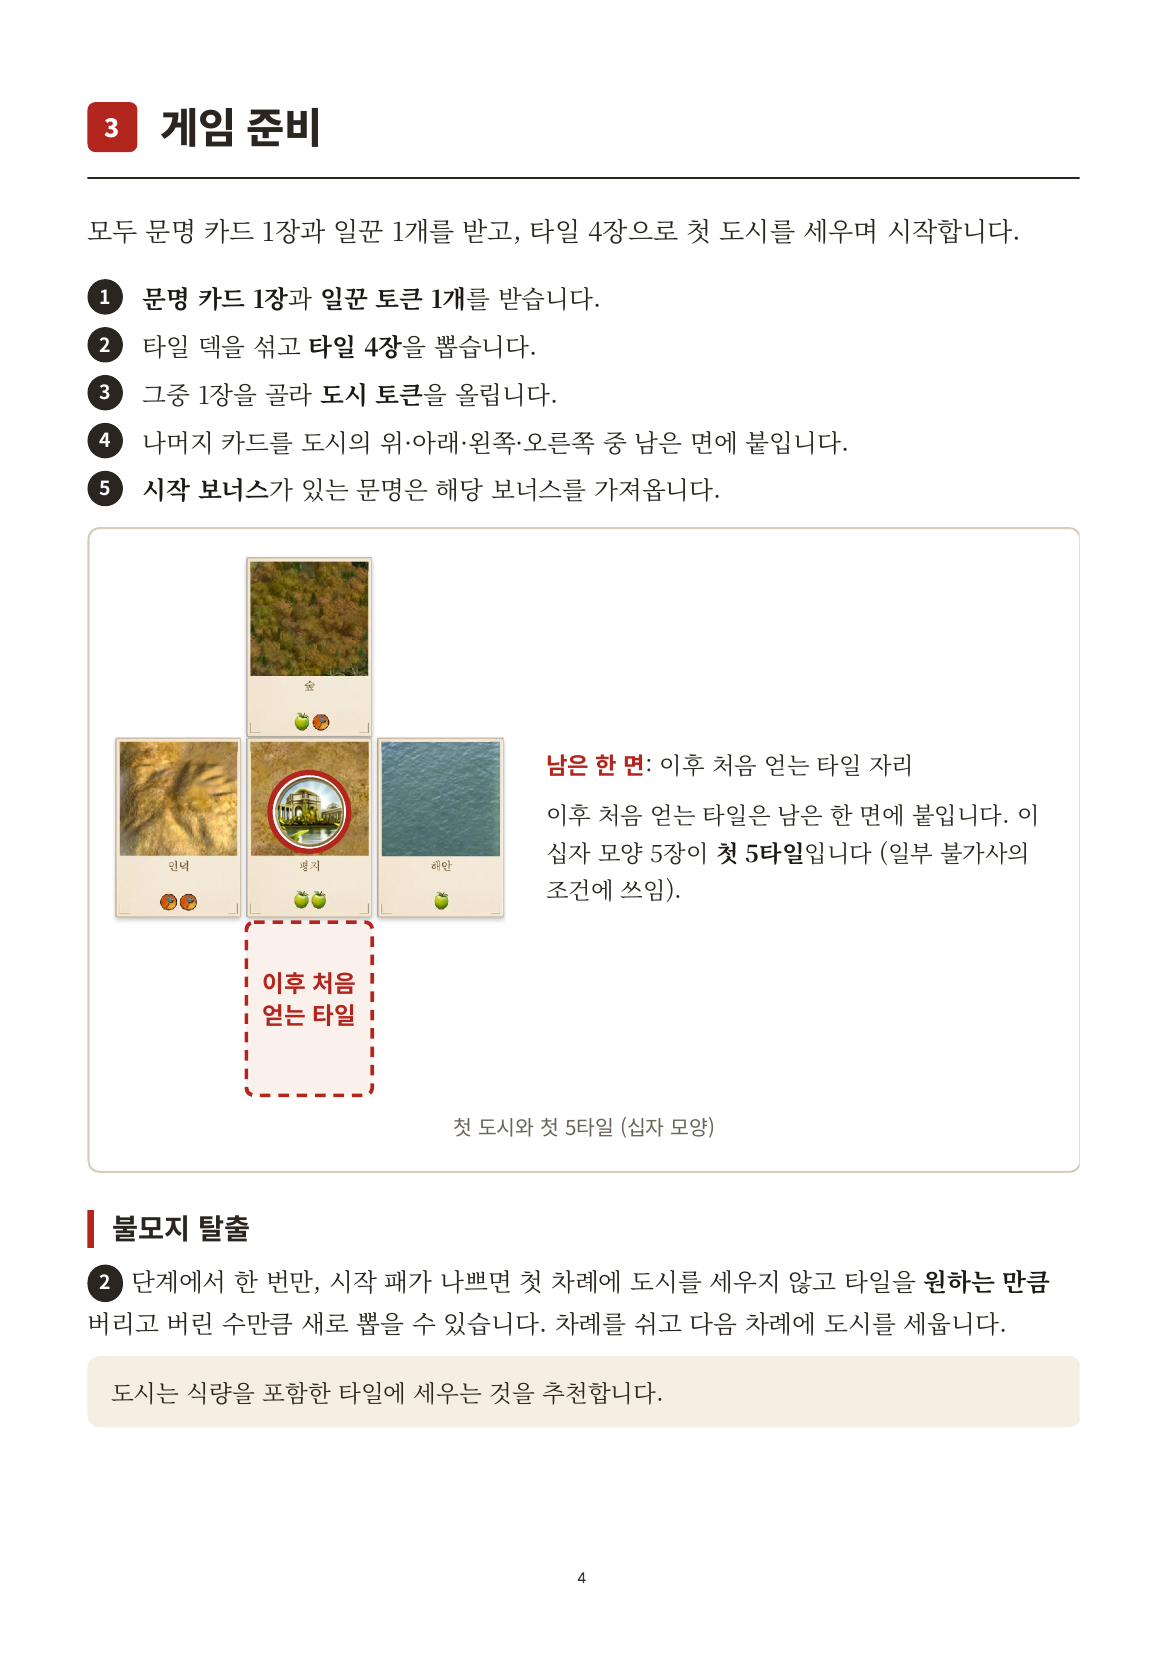
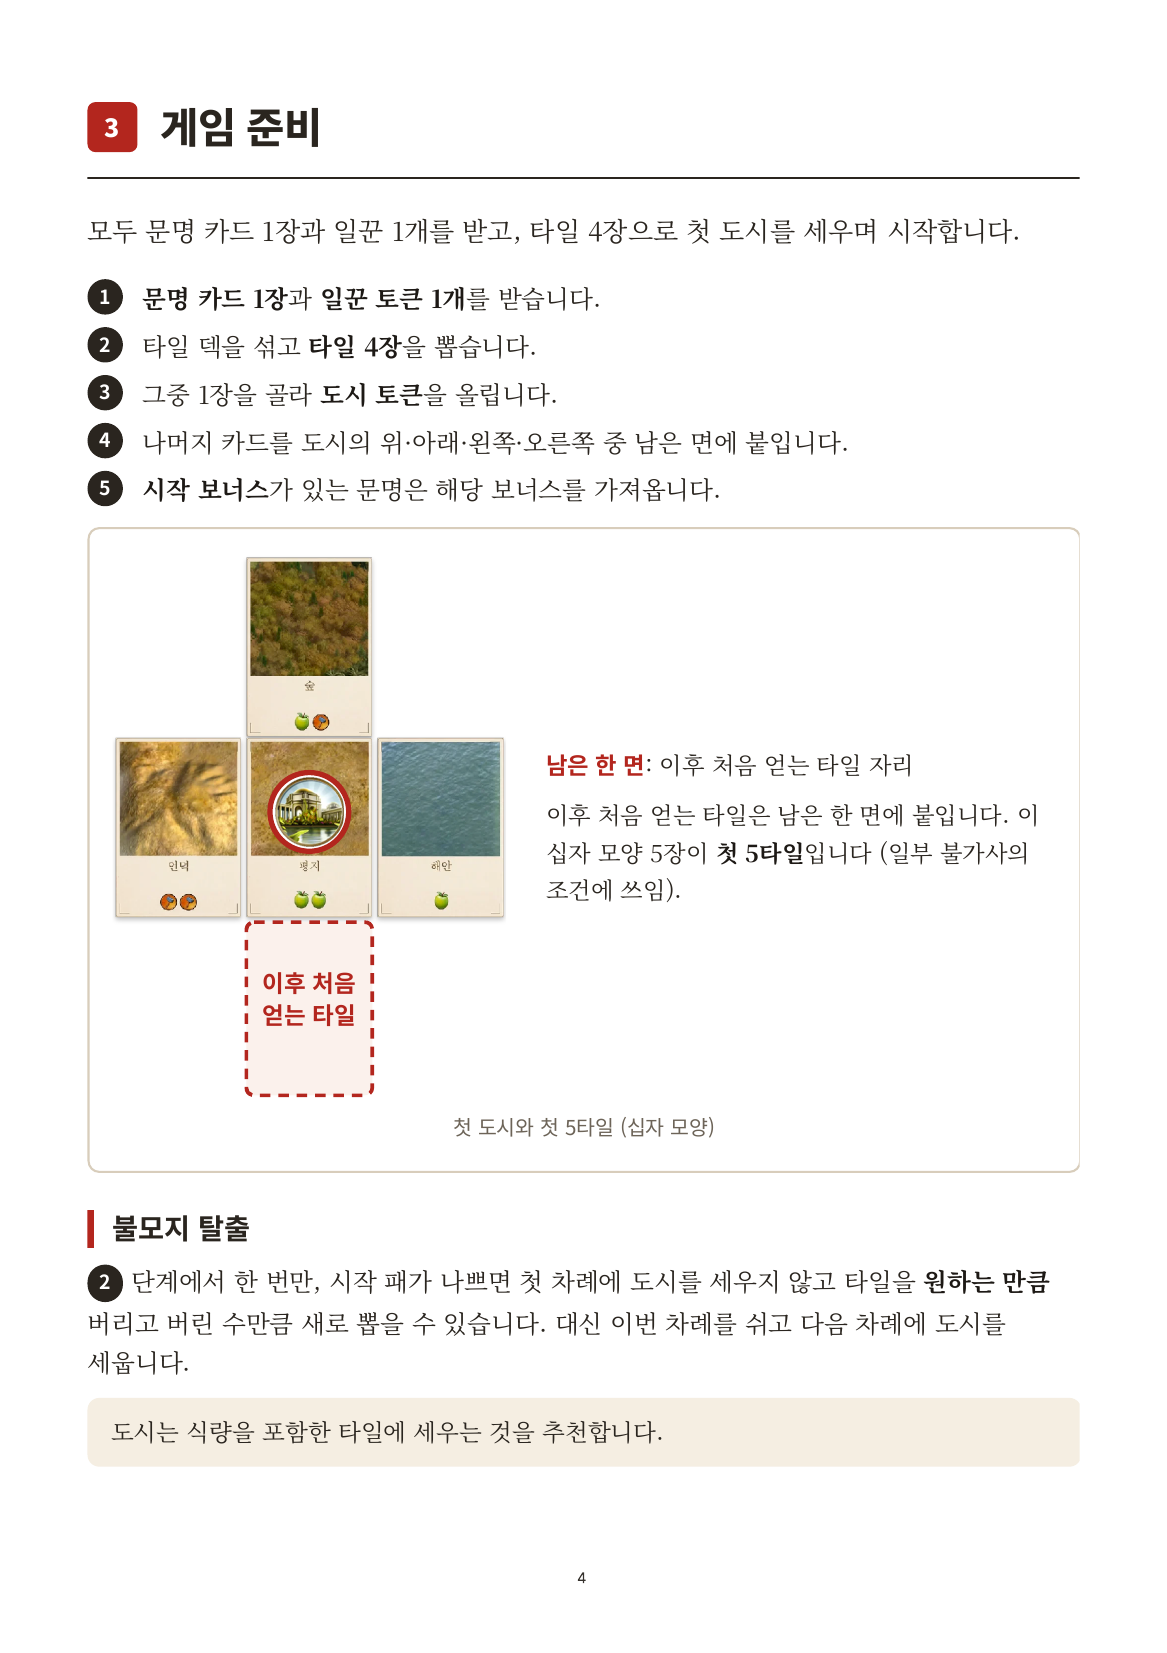
규칙서: 불모지 탈출 '대신 이번 차례를 쉬고'
Claude-Session: https://claude.ai/code/session_01LEwiRiXRJPjckZxHM1aEbm

Changed region(s): [[0.0617, 0.7713, 0.9254, 0.8947]]

diff --git a/docs/rulebook/source/part1.html b/docs/rulebook/source/part1.html
@@ -109,7 +109,7 @@
   </figure>
 
   <h3>불모지 탈출</h3>
-  <p><span class="stepno">2</span> 단계에서 한 번만, 시작 패가 나쁘면 첫 차례에 도시를 세우지 않고 타일을 <b>원하는 만큼</b> 버리고 버린 수만큼 새로 뽑을 수 있습니다. 차례를 쉬고 다음 차례에 도시를 세웁니다.</p>
+  <p><span class="stepno">2</span> 단계에서 한 번만, 시작 패가 나쁘면 첫 차례에 도시를 세우지 않고 타일을 <b>원하는 만큼</b> 버리고 버린 수만큼 새로 뽑을 수 있습니다. 대신 이번 차례를 쉬고 다음 차례에 도시를 세웁니다.</p>
   <div class="note">도시는 식량을 포함한 타일에 세우는 것을 추천합니다.</div>
 </section>
 
